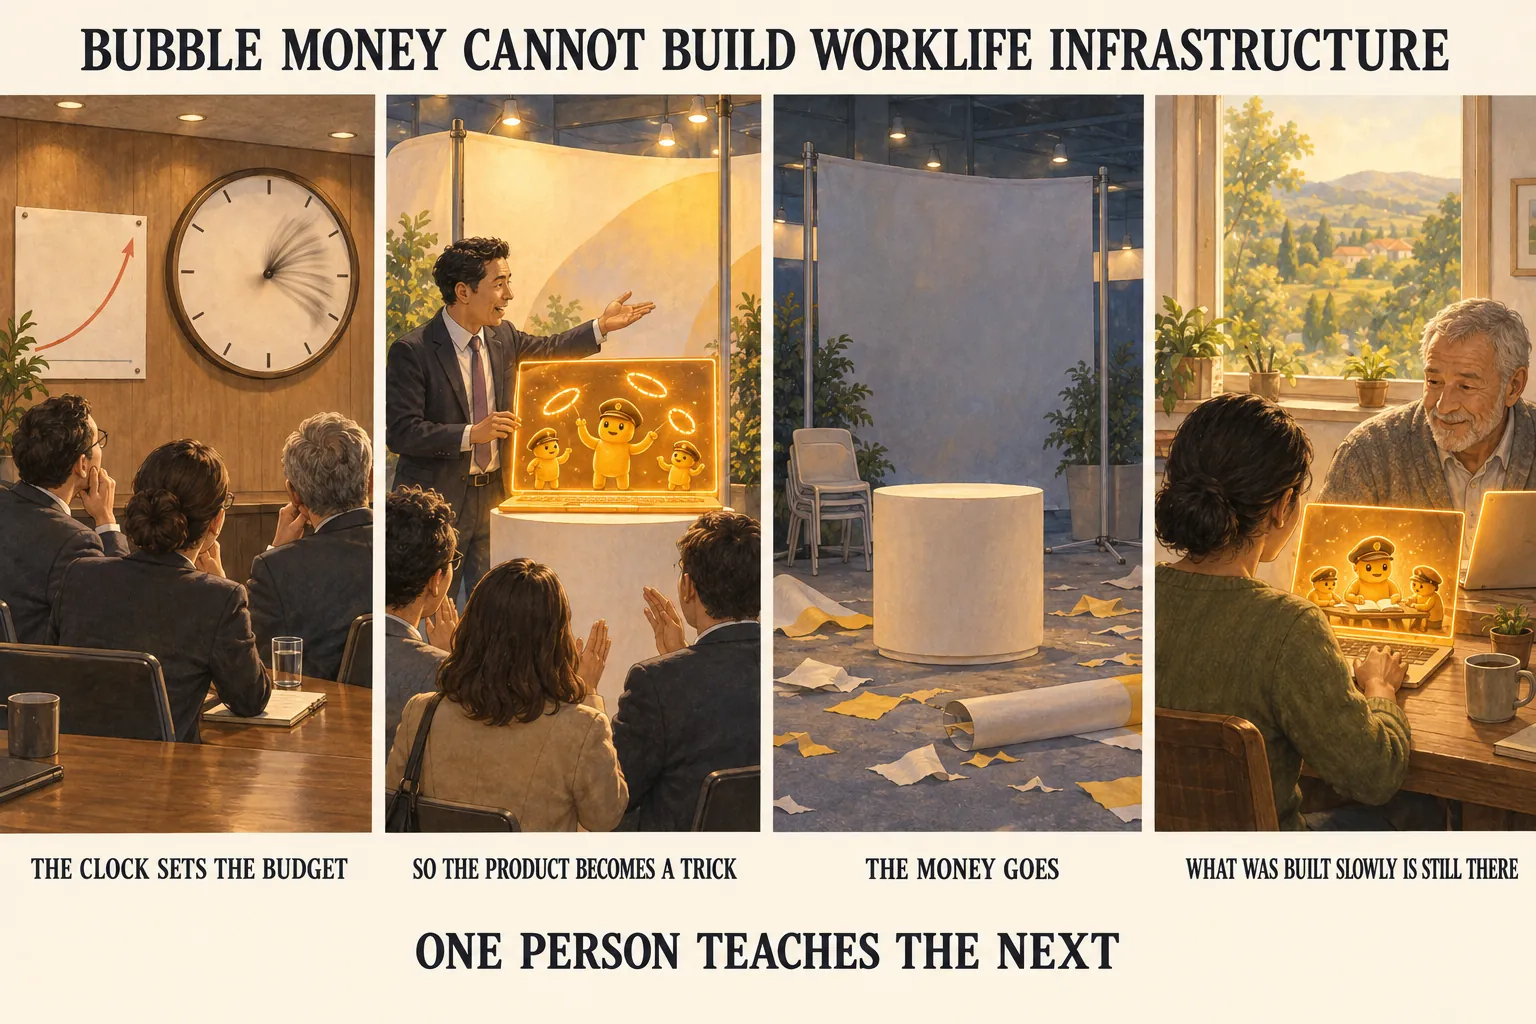
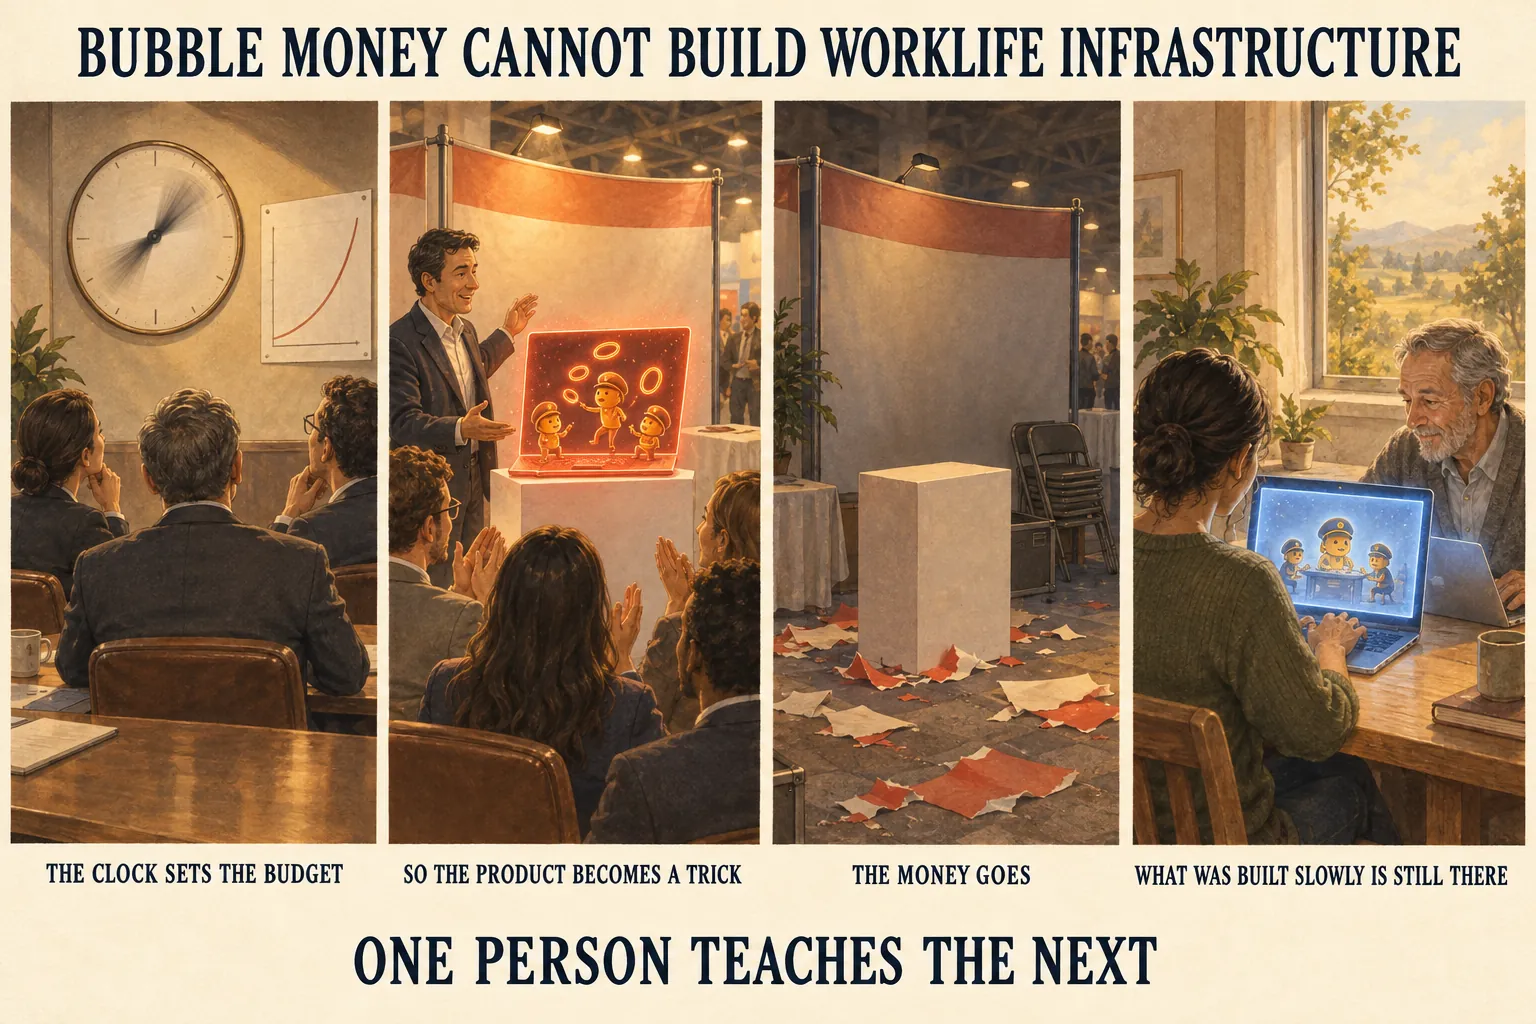
hero: red glow for the counterfeit, blue for the real thing

diff --git a/docs/perspectives/bubble-money-cannot-build-worklife-infrastructure.md b/docs/perspectives/bubble-money-cannot-build-worklife-infrastructure.md
@@ -9,7 +9,7 @@ image: "/img/comics/bubble-money-cannot-build-worklife-infrastructure.webp"
 
 *The software worth building is worklife infrastructure, and it only grows one transformed person at a time. Capital that needs a return inside this cycle cannot wait for that, so it funds gimmicks and overclaims instead. Whatever lasts will have been built outside the bubble.*
 
-![Four-panel warm editorial strip on a cream ground. Title bar reads "BUBBLE MONEY CANNOT BUILD WORKLIFE INFRASTRUCTURE"; footer bar reads "ONE PERSON TEACHES THE NEXT". Panel one, captioned "THE CLOCK SETS THE BUDGET": three seated figures in business clothes, seen from behind, look up at a wall holding a large clock whose hands are blurred with speed and an unlabelled steep rising curve. Panel two, captioned "SO THE PRODUCT BECOMES A TRICK": a bright trade-show booth under a blank banner, where one of those figures presents a glowing amber laptop turned outward on a pedestal to a small clapping crowd; inside its screen the small rounded figures in gold caps are juggling rings for the audience rather than working. Panel three, captioned "THE MONEY GOES": the same booth, empty and dim, the pedestal bare, the banner blank, chairs stacked, blank torn paper on the floor, nobody there. Panel four, captioned "WHAT WAS BUILT SLOWLY IS STILL THERE": an ordinary desk by a window, where a woman in an olive sweater sits with her back to us, nearest the camera, both hands on the keyboard of a steadily glowing amber laptop whose screen faces her. Inside it a figure in a gold cap and two smaller helpers work calmly. An older man in a grey cardigan sits beside her with his own smaller laptop just beginning to glow.](/img/comics/bubble-money-cannot-build-worklife-infrastructure.webp)
+![Four-panel warm editorial strip on a cream ground. Title bar reads "BUBBLE MONEY CANNOT BUILD WORKLIFE INFRASTRUCTURE"; footer bar reads "ONE PERSON TEACHES THE NEXT". Panel one, captioned "THE CLOCK SETS THE BUDGET": three seated figures in business clothes, seen from behind, look up at a wall holding a large clock whose hands are blurred with speed and an unlabelled steep rising curve. Panel two, captioned "SO THE PRODUCT BECOMES A TRICK": a trade-show booth under a blank banner, where one of those figures presents a laptop turned outward on a pedestal to a small clapping crowd. That laptop glows VERMILION RED, and inside its screen the small rounded figures in gold caps are juggling rings for the audience rather than working. Panel three, captioned "THE MONEY GOES": the same booth, empty and dim, the pedestal bare, the banner blank, torn red and white paper on the floor, nobody there. Panel four, captioned "WHAT WAS BUILT SLOWLY IS STILL THERE": an ordinary desk by a window, where a woman in an olive sweater sits with her back to us, nearest the camera, both hands on the keyboard of a laptop that glows SLATE BLUE, its screen facing her, a figure in a gold cap and two smaller helpers working calmly inside it. An older man in a grey cardigan sits beside her with his own laptop just beginning to glow the same blue.](/img/comics/bubble-money-cannot-build-worklife-infrastructure.webp)
 
 ---
 
